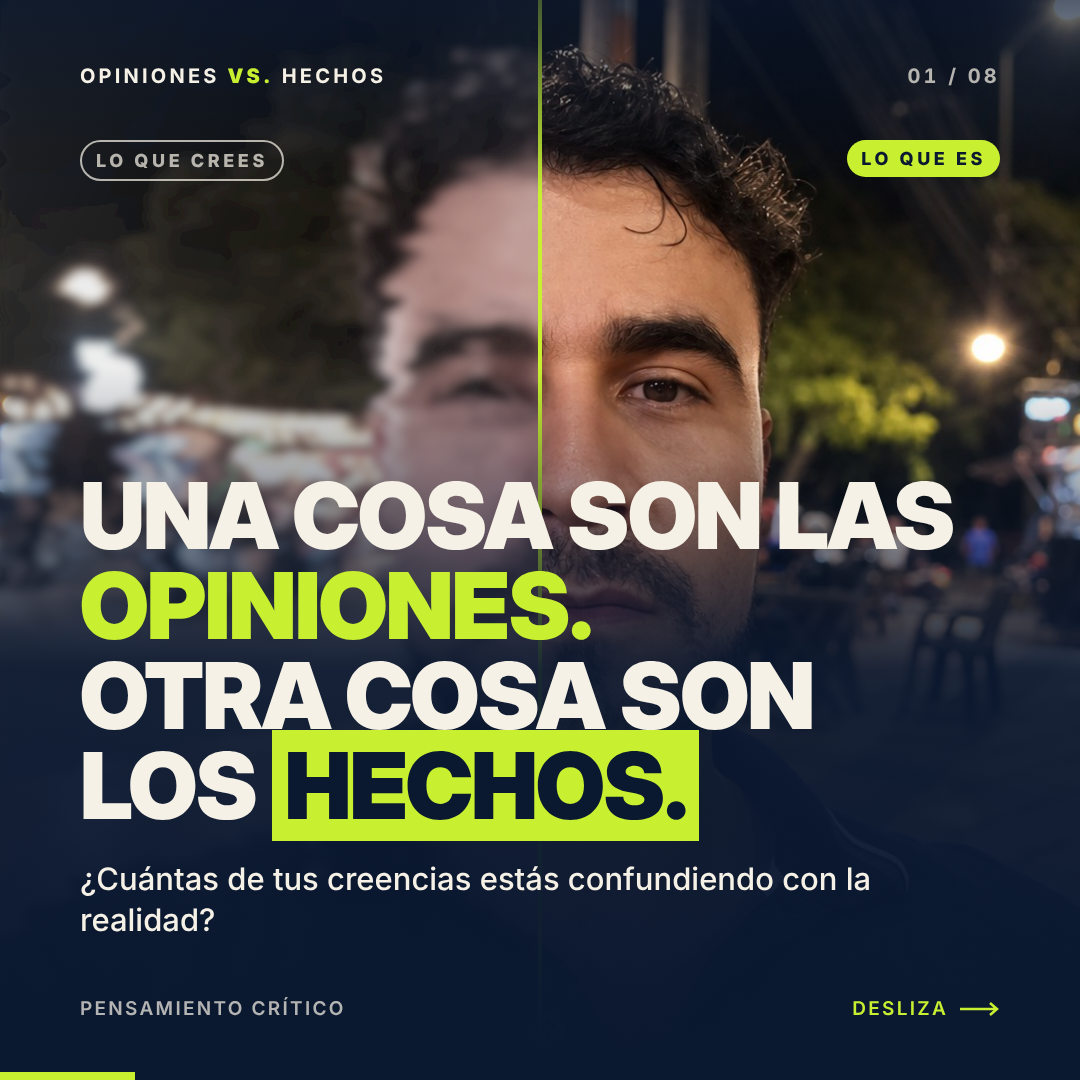
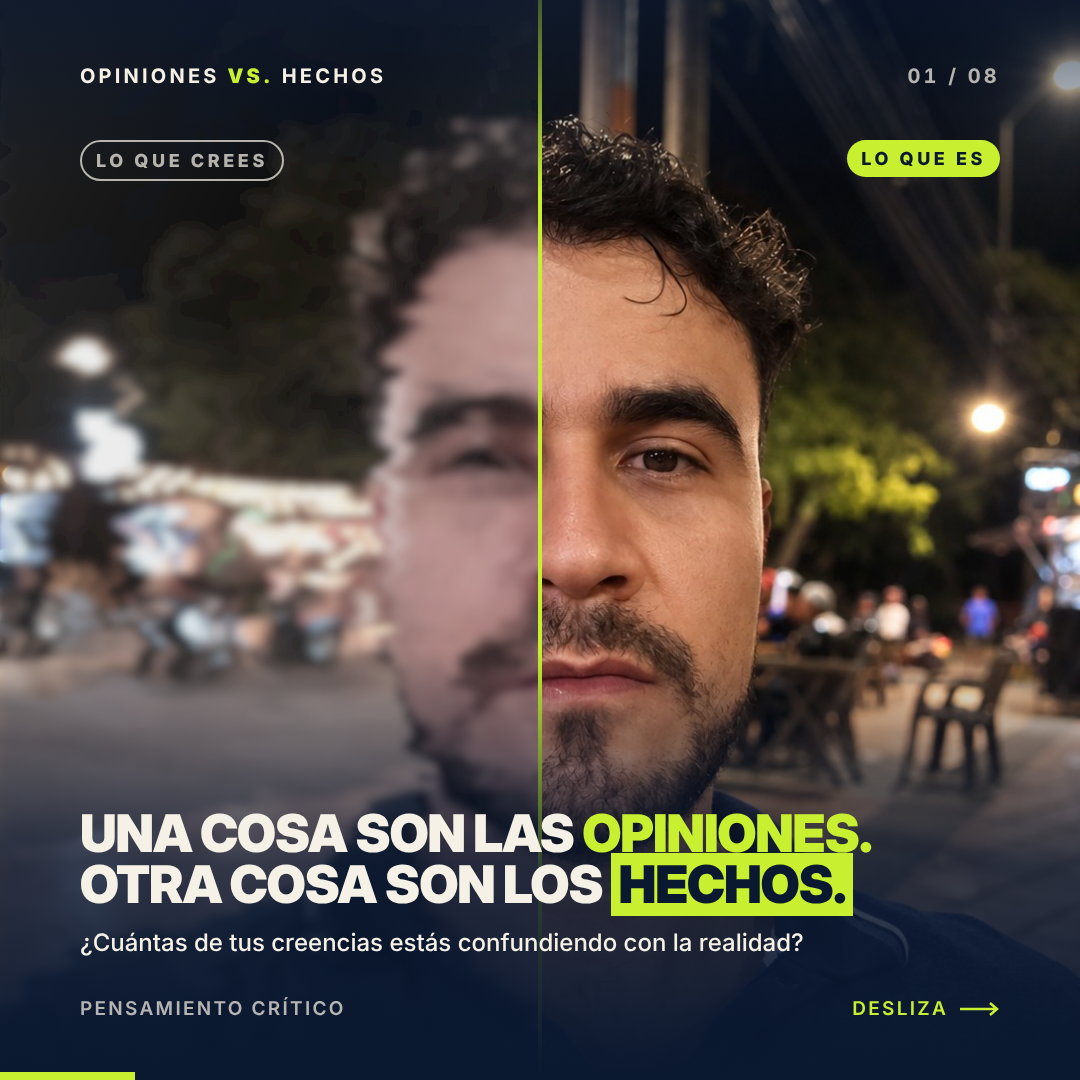
Carrusel: give the photo more weight on the cover slide
Smaller headline and subtitle, lighter bottom gradient, face moved down.

Claude-Session: https://claude.ai/code/session_01LakP3EpH15hfHWDcvzvKtx

diff --git a/carrusel-opiniones-vs-hechos/carrusel.html b/carrusel-opiniones-vs-hechos/carrusel.html
@@ -66,21 +66,21 @@
     </filter>
   </svg>
   <div style="position:absolute;inset:0">
-    <img src="fotos/retrato-azul.jpg" style="position:absolute;left:0;top:-190px;width:1080px">
+    <img src="fotos/retrato-azul.jpg" style="position:absolute;left:0;top:-120px;width:1080px">
     <!-- distorted glass, left half -->
     <div style="position:absolute;left:0;top:0;bottom:0;width:540px;overflow:hidden">
-      <img src="fotos/retrato-azul.jpg" style="position:absolute;left:0;top:-190px;width:1080px;filter:url(#glass) saturate(.6) hue-rotate(-10deg) brightness(.85)">
+      <img src="fotos/retrato-azul.jpg" style="position:absolute;left:0;top:-120px;width:1080px;filter:url(#glass) saturate(.6) hue-rotate(-10deg) brightness(.85)">
       <div style="position:absolute;inset:0;background:linear-gradient(115deg,rgba(255,255,255,.10),rgba(255,255,255,0) 40%,rgba(255,255,255,.08) 60%,rgba(255,255,255,0) 75%);mix-blend-mode:screen"></div>
     </div>
     <div style="position:absolute;left:538px;top:0;bottom:0;width:4px;background:var(--lime)"></div>
-    <div style="position:absolute;inset:0;background:linear-gradient(0deg,var(--navy) 0%,rgba(10,24,48,.92) 38%,rgba(10,24,48,0) 66%),linear-gradient(180deg,rgba(10,24,48,.7) 0%,rgba(10,24,48,0) 18%)"></div>
+    <div style="position:absolute;inset:0;background:linear-gradient(0deg,var(--navy) 0%,rgba(10,24,48,.8) 20%,rgba(10,24,48,0) 40%),linear-gradient(180deg,rgba(10,24,48,.7) 0%,rgba(10,24,48,0) 18%)"></div>
   </div>
   <div class="top"><span class="brand">Opiniones <b>vs.</b> Hechos</span><span class="num">01 / 08</span></div>
   <div style="position:absolute;top:140px;left:80px;font-size:18px;font-weight:800;letter-spacing:.2em;padding:8px 14px;border:2px solid var(--ivory-dim);border-radius:999px;color:var(--ivory-dim);z-index:4">LO QUE CREES</div>
   <div style="position:absolute;top:140px;right:80px;font-size:18px;font-weight:800;letter-spacing:.2em;padding:8px 14px;background:var(--lime);border-radius:999px;color:var(--navy);z-index:4">LO QUE ES</div>
-  <div style="position:absolute;left:80px;right:80px;bottom:140px;z-index:4">
-    <h1 class="display" style="font-size:92px">Una cosa son las <span class="lime">opiniones.</span><br>Otra cosa son los <span class="hl">hechos.</span></h1>
-    <p style="margin-top:28px;font-size:31px;font-weight:500;color:var(--ivory);line-height:1.3">¿Cuántas de tus creencias estás confundiendo con la realidad?</p>
+  <div style="position:absolute;left:80px;right:80px;bottom:122px;z-index:4">
+    <h1 class="display" style="font-size:52px">Una cosa son las <span class="lime">opiniones.</span><br>Otra cosa son los <span class="hl">hechos.</span></h1>
+    <p style="margin-top:16px;font-size:24px;font-weight:500;color:var(--ivory);line-height:1.3">¿Cuántas de tus creencias estás confundiendo con la realidad?</p>
   </div>
   <div class="bottom"><span>Pensamiento crítico</span><span class="swipe">Desliza <svg width="40" height="16" viewBox="0 0 40 16"><path d="M0 8h36M30 2l7 6-7 6" stroke="#C8F031" stroke-width="2.5" fill="none"/></svg></span></div>
   <div class="bar" style="width:12.5%"></div>
